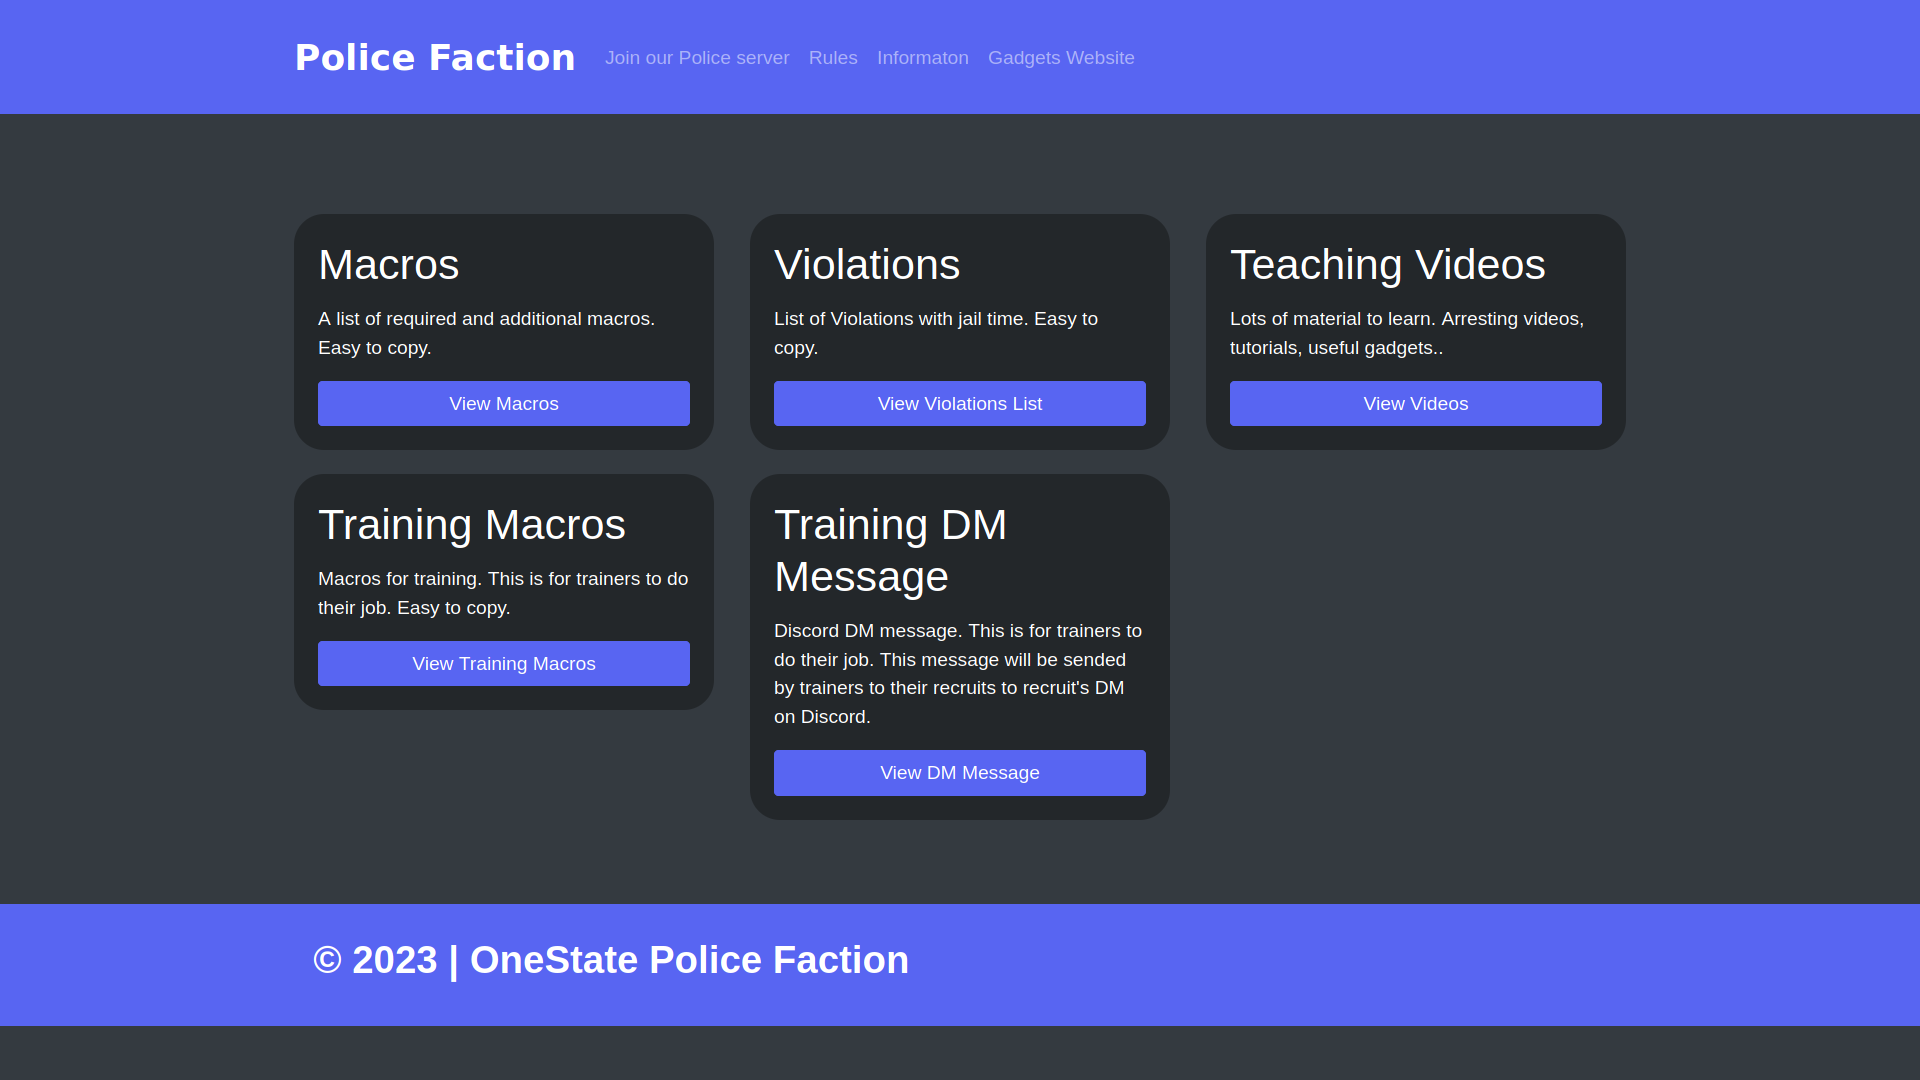
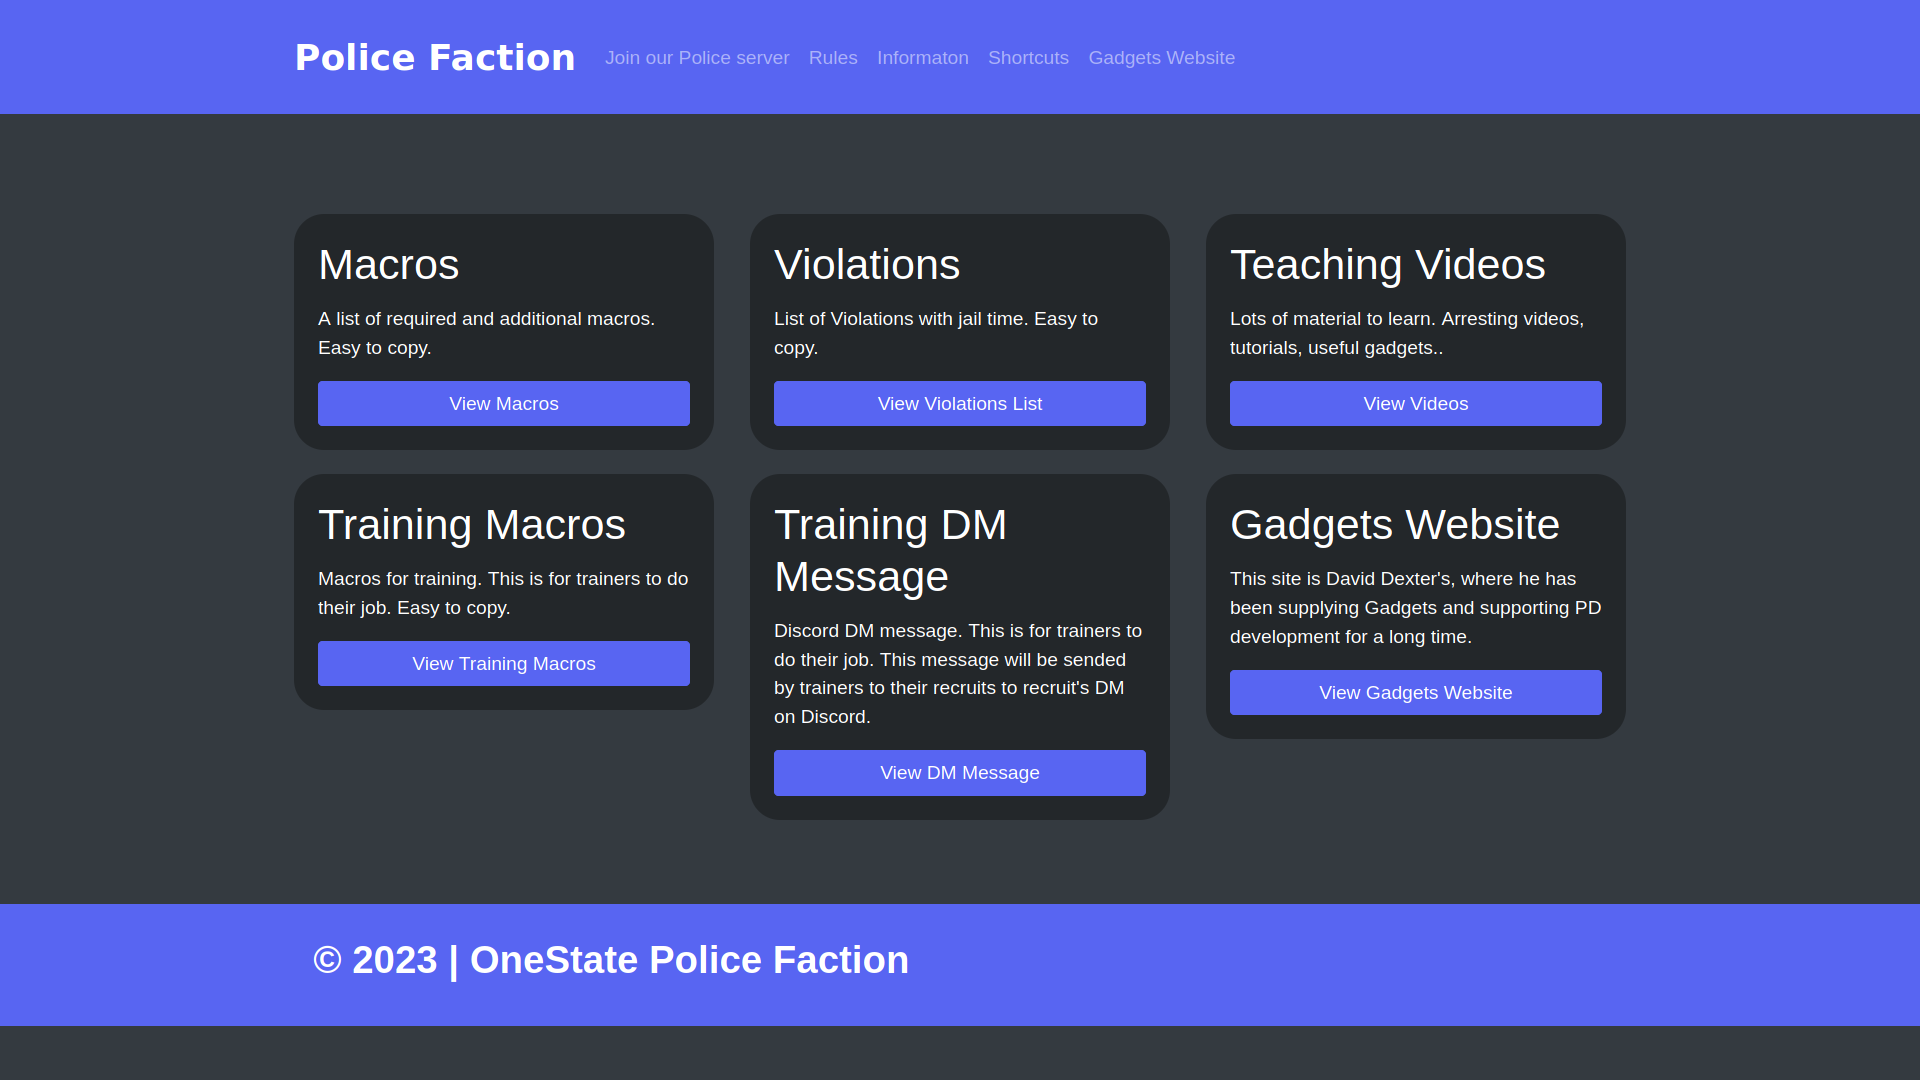
added gadgets web to shortcuts

Changed region(s): [[0.625, 0.4583, 0.8438, 0.6722], [0.5, 0.0306, 0.625, 0.0611]]

diff --git a/shortcuts/index.html b/shortcuts/index.html
@@ -135,6 +135,16 @@
                           <a href="https://onestate.fun/police/dm" target="_blank" class="btn btn-discord btn-block stretched-link">View DM Message</a>
                         </div>
                     </div>
+                    </div>
+                    <div class="col-xs-12 col-sm-12 col-md-4 col-lg-4 col-xl-4">
+                        <div class="card bg-grey" style="width:100%">
+                            <div class="card-body">
+                              <h4 class="card-title big-text">Gadgets Website</h4>
+                              <p class="card-text">This site is David Dexter's, where he has been supplying Gadgets and supporting PD development for a long time.</p>
+                              <!-- Change link to your support server link -->
+                              <a href="https://onestate.fun/police/files" target="_blank" class="btn btn-discord btn-block stretched-link">View Gadgets Website</a>
+                            </div>
+                        </div>
                 </div>
             </div>
         </div>
